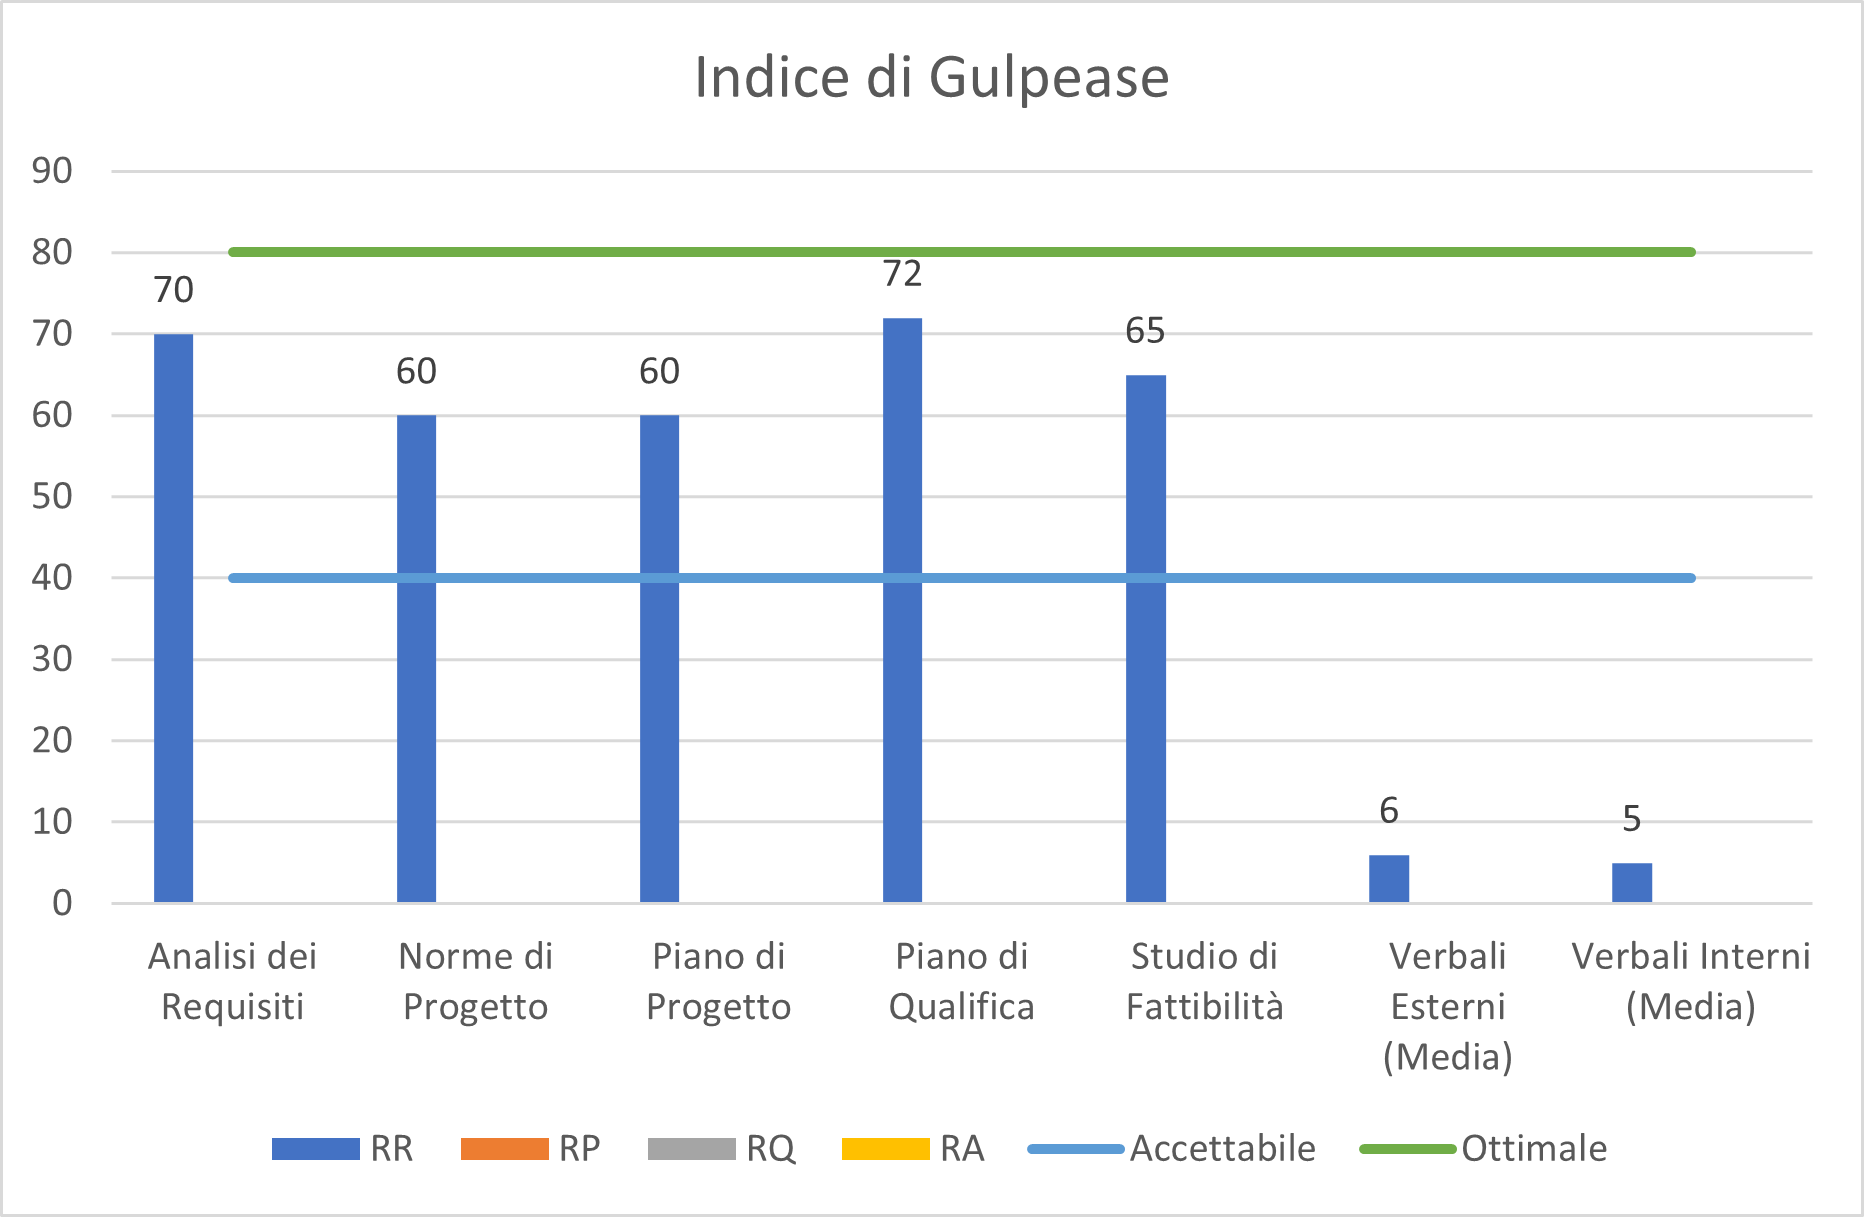
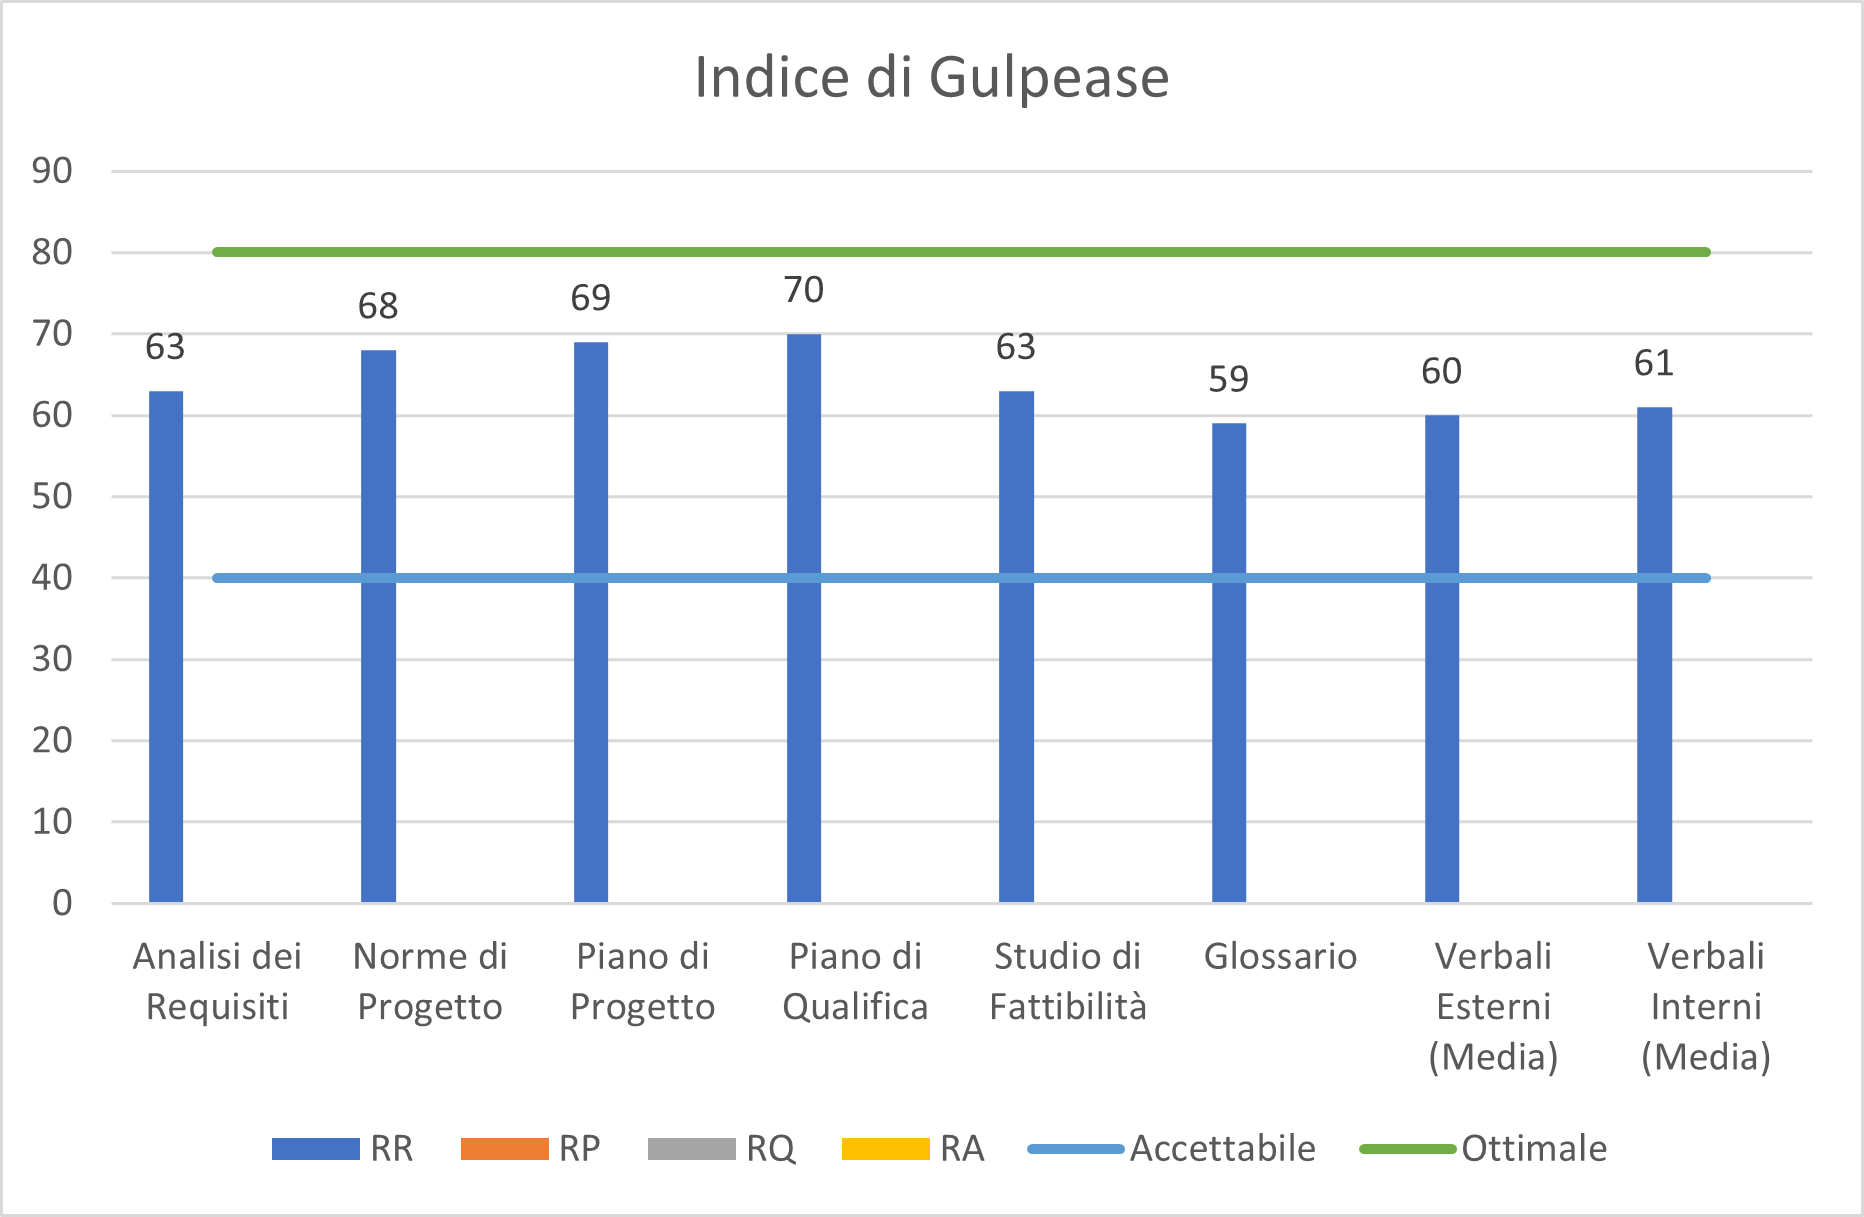
#94 - Setup grafici gulpease per documento

diff --git a/DocumentazioneEsterna/PianoDiQualifica/res/ResocontoAttivitaDiVerifica/res/esitiIndiceGulpease.tex b/DocumentazioneEsterna/PianoDiQualifica/res/ResocontoAttivitaDiVerifica/res/esitiIndiceGulpease.tex
@@ -3,14 +3,54 @@ Di seguito è riportato il grafico dell'indice di Gulpease calcolato sui vari do
 I dati fanno riferimento a:
 \begin{itemize}
 	\item \textbf{RR:} Revisione dei Requisiti;
-	\item \textbf{RP:} Revisione di Progettazione (da aggiungere con l'avanzare del progetto);
+	\item \textbf{RP:} Revisione di Progettazione;
 	\item \textbf{RQ:} Revisione di Qualifica (da aggiungere con l'avanzare del progetto);
 	\item \textbf{RA:} Revisione di Accettazione (da aggiungere con l'avanzare del progetto).
 \end{itemize} 
 
+\subsubsection{Grafico complessivo}
+
 \begin{figure}[H]
 \centering
 \includegraphics[scale=0.90]{res/ResocontoAttivitaDiVerifica/res/img/indiceGulpease.png}\\
-\caption{Indice di Gulpease}
+\caption{Andamento complessivo dell'indice di Gulpease}
+\end{figure}
+
+\subsubsection{Grafico per documento}
+
+\begin{figure}[H]
+\centering
+\includegraphics[scale=0.90]{res/ResocontoAttivitaDiVerifica/res/img/gulpeaseADR.png}\\
+\caption{Andamento dell'indice di Gulpease \AdR}
+\end{figure}
+
+\begin{figure}[H]
+\centering
+\includegraphics[scale=0.90]{res/ResocontoAttivitaDiVerifica/res/img/gulpeaseNDP.png}\\
+\caption{Andamento dell'indice di Gulpease \NdP}
+\end{figure}
+
+\begin{figure}[H]
+\centering
+\includegraphics[scale=0.90]{res/ResocontoAttivitaDiVerifica/res/img/gulpeasePDP.png}\\
+\caption{Andamento dell'indice di Gulpease \PdP}
+\end{figure}
+
+\begin{figure}[H]
+\centering
+\includegraphics[scale=0.90]{res/ResocontoAttivitaDiVerifica/res/img/gulpeasePDQ.png}\\
+\caption{Andamento dell'indice di Gulpease \PdQ}
+\end{figure}
+
+\begin{figure}[H]
+\centering
+\includegraphics[scale=0.90]{res/ResocontoAttivitaDiVerifica/res/img/gulpeaseSDF.png}\\
+\caption{Andamento dell'indice di Gulpease \SdF}
+\end{figure}
+
+\begin{figure}[H]
+\centering
+\includegraphics[scale=0.90]{res/ResocontoAttivitaDiVerifica/res/img/gulpeaseG.png}\\
+\caption{Andamento dell'indice di Gulpease \Glossario}
 \end{figure}
 

diff --git a/DocumentazioneEsterna/PianoDiQualifica/res/ResocontoAttivitaDiVerifica/resocontoAttivitaDiVerifica.tex b/DocumentazioneEsterna/PianoDiQualifica/res/ResocontoAttivitaDiVerifica/resocontoAttivitaDiVerifica.tex
@@ -1,10 +1,6 @@
 \section{Resoconto attività di verifica}
-In tale sezione vengono descritti gli esiti delle attività di verifica svolte sui documenti redatti.
+In tale appendice vengono descritti gli esiti delle attività di verifica svolte sui documenti redatti.
 
-\subsection{Analisi dinamica dei documenti}
-L'analisi dinamica mediante l'utilizzo dello strumento GitHub\ped{G} Actions\ped{G} ha garantito una stesura del codice \LaTeX{}\ped{G} priva di errori e più coesa fra tutti i membri del gruppo. Infatti, tramite questo strumento, è stato possibile individuare errori che potevano essere ignorati durante la compilazione locale del documento da qualche membro del team.
-
-\subsection{Analisi statica dei documenti}
-L'analisi statica dei documenti tramite \textit{Walkthrough}\ped{G} ha portato all'individuazione di errori comuni, i quali hanno portato ad un aggiornamento della lista di controllo già stilata in precedenza e consultabile all'interno delle \NdPv{2.0.0} nella sezione \textit{Analisi statica}. In tale modo è stata resa più semplice e mirata l'attività di \textit{Inspection}\ped{G}. Inoltre sono stati riscontrati errori e/o migliorie per il template\ped{G} \LaTeX\ped{G} a cui fa riferimento ogni documento.
+\input{res/ResocontoAttivitaDiVerifica/res/revisioneDellaDocumentazione.tex}
 
 \input{res/ResocontoAttivitaDiVerifica/res/esitiIndiceGulpease.tex}

diff --git a/DocumentazioneEsterna/PianoDiQualifica/res/ResocontoAttivitaDiVerifica/res/revisioneDellaDocumentazione.tex b/DocumentazioneEsterna/PianoDiQualifica/res/ResocontoAttivitaDiVerifica/res/revisioneDellaDocumentazione.tex
@@ -1,0 +1,8 @@
+\subsection{Revisione della documentazione}
+
+\subsubsection{Analisi dinamica dei documenti}
+L'analisi dinamica mediante l'utilizzo dello strumento GitHub\ped{G} Actions\ped{G} ha garantito una stesura del codice \LaTeX{}\ped{G} priva di errori e più coesa fra tutti i membri del gruppo. Infatti, tramite questo strumento, è stato possibile individuare errori che potevano essere ignorati durante la compilazione locale del documento da qualche membro del team.
+
+\subsubsection{Analisi statica dei documenti}
+L'analisi statica dei documenti tramite \textit{Walkthrough}\ped{G} ha portato all'individuazione di errori comuni. In tale modo è stata resa più semplice e mirata l'attività di \textit{Inspection}\ped{G}.
+

diff --git a/DocumentazioneEsterna/PianoDiQualifica/PianoDiQualifica.tex b/DocumentazioneEsterna/PianoDiQualifica/PianoDiQualifica.tex
@@ -26,10 +26,11 @@
 \newpage
 \input{res/SpecificheDeiTest/specificheDeiTest.tex}
 \newpage
+
+\appendix
 \input{res/ResocontoAttivitaDiVerifica/resocontoAttivitaDiVerifica.tex}
 \newpage
 \input{res/ValutazionePerIlMiglioramento/valutazionePerIlMiglioramento.tex}
 \newpage
-\appendix
 \input{res/deming.tex}
 \end{document}
